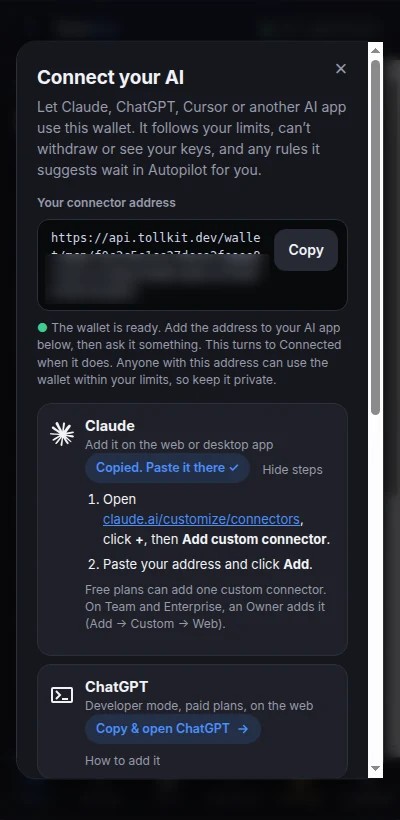
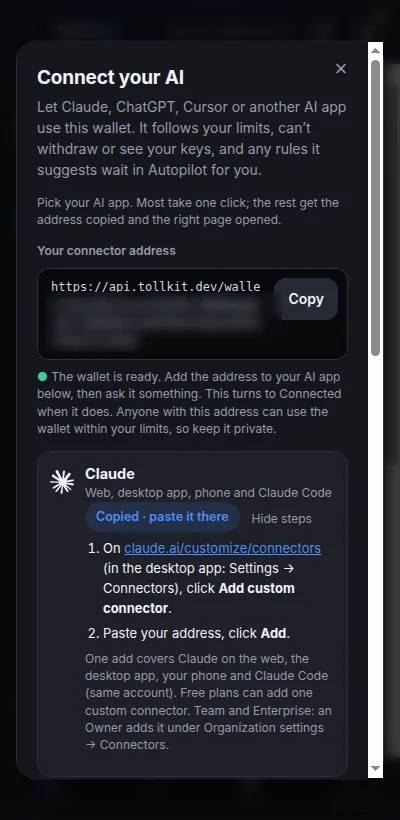
Fresh wallet screenshots: new Bots screen with charts, current home, token check and Connect your AI
Claude-Session: https://claude.ai/code/session_01DCQrH9pwVrdFiLfn6hciUT

diff --git a/wallet.html b/wallet.html
@@ -98,7 +98,7 @@
       <a class="btn" href="#fees">Fees</a>
     </div>
   </div>
-  <figure class="shot"><img src="/wallet/img/home.webp" width="400" height="820" alt="Tollkit Wallet home screen: total balance, buttons for Buy, Sell, Receive, Move and Stake, today's spending against the limits, and balances on Base and Solana."></figure>
+  <figure class="shot"><img src="/wallet/img/home.webp" width="400" height="820" alt="Tollkit Wallet home screen: total balance, buttons for Buy, Sell, Receive, Move, Stake and Withdraw, a box to ask the AI, a backup reminder, Connect your AI, and today's spending against the limits."></figure>
 </header>
 
 <section class="feature">
@@ -124,12 +124,13 @@
     <h2>Trading bots that show their numbers</h2>
     <p>Plain rule-based bots, no AI involved: steady buys on a schedule, buying dips, stop-losses and take-profits, profit ladders and grids. You see every setting before a bot starts.</p>
     <ul>
-      <li>Each bot shows its trades, failures and result.</li>
+      <li>Each bot shows its trades, failures and result, on a price chart that marks where it buys and sells.</li>
+      <li>Before a bot starts, drag its lines on the chart to set it up, and replay it over the last 30 days of prices.</li>
       <li>The autopilot checks prices every 15 seconds while the wallet is open.</li>
       <li>See how bots do for other people on the <a href="/bots">bot board</a>.</li>
     </ul>
   </div>
-  <figure class="shot"><img src="/wallet/img/bots.webp" width="400" height="820" loading="lazy" alt="The Bots tab: a running steady-buyer bot with its trades, failures and result, and a catalog of bots to set up."></figure>
+  <figure class="shot"><img src="/wallet/img/bots.webp" width="400" height="820" loading="lazy" alt="The Bots tab: two bots running, their combined result and next move, and a Buy the dip bot with a price chart showing its buy and take-profit lines and the trade it made."></figure>
 </section>
 
 <section class="feature">
@@ -144,7 +145,7 @@
       <li>Using Tollkit's built-in AI with no USDC on hand? It offers to swap a little SOL or ETH first, and can do it automatically after you say yes once.</li>
     </ul>
   </div>
-  <figure class="shot"><img src="/wallet/img/connect.webp" width="400" height="820" loading="lazy" alt="Connect your AI: a private connector address with a one-tap Copy and open Claude button and step-by-step instructions."></figure>
+  <figure class="shot"><img src="/wallet/img/connect.webp" width="400" height="820" loading="lazy" alt="Connect your AI: a private connector address with a Copy button, and the steps for adding it to Claude."></figure>
 </section>
 
 <section class="band">
